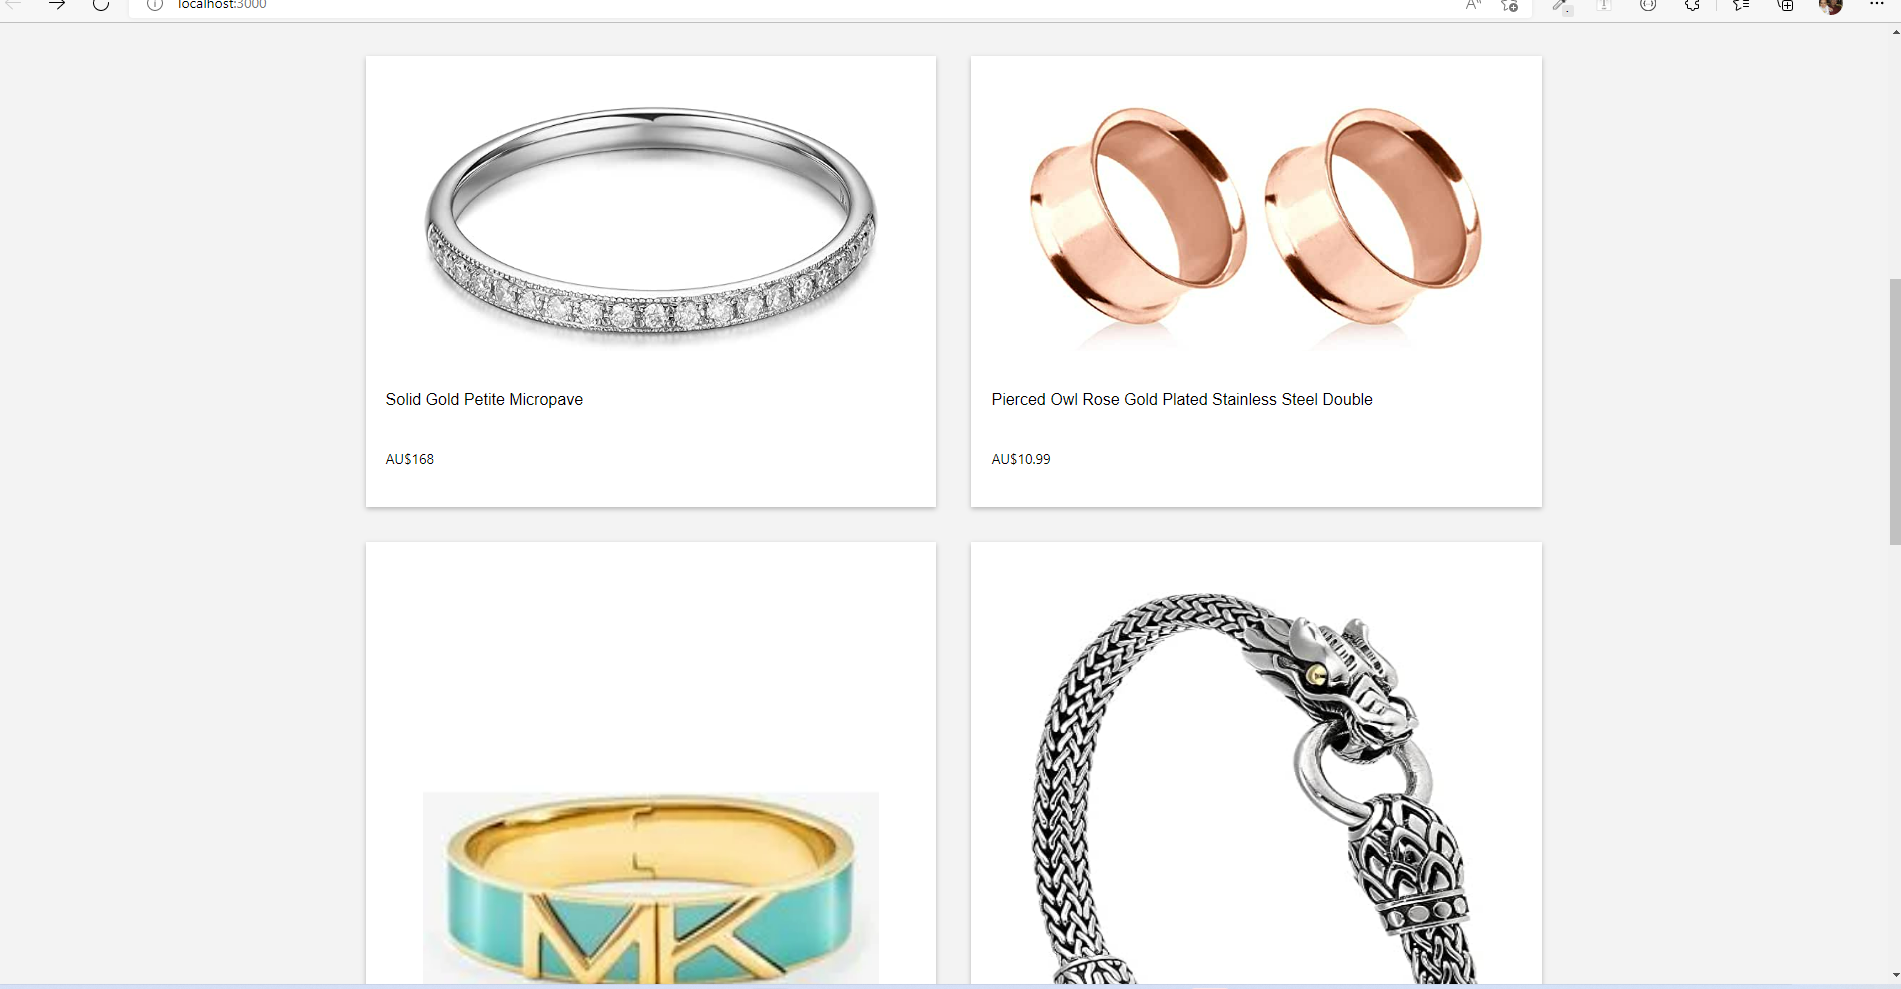
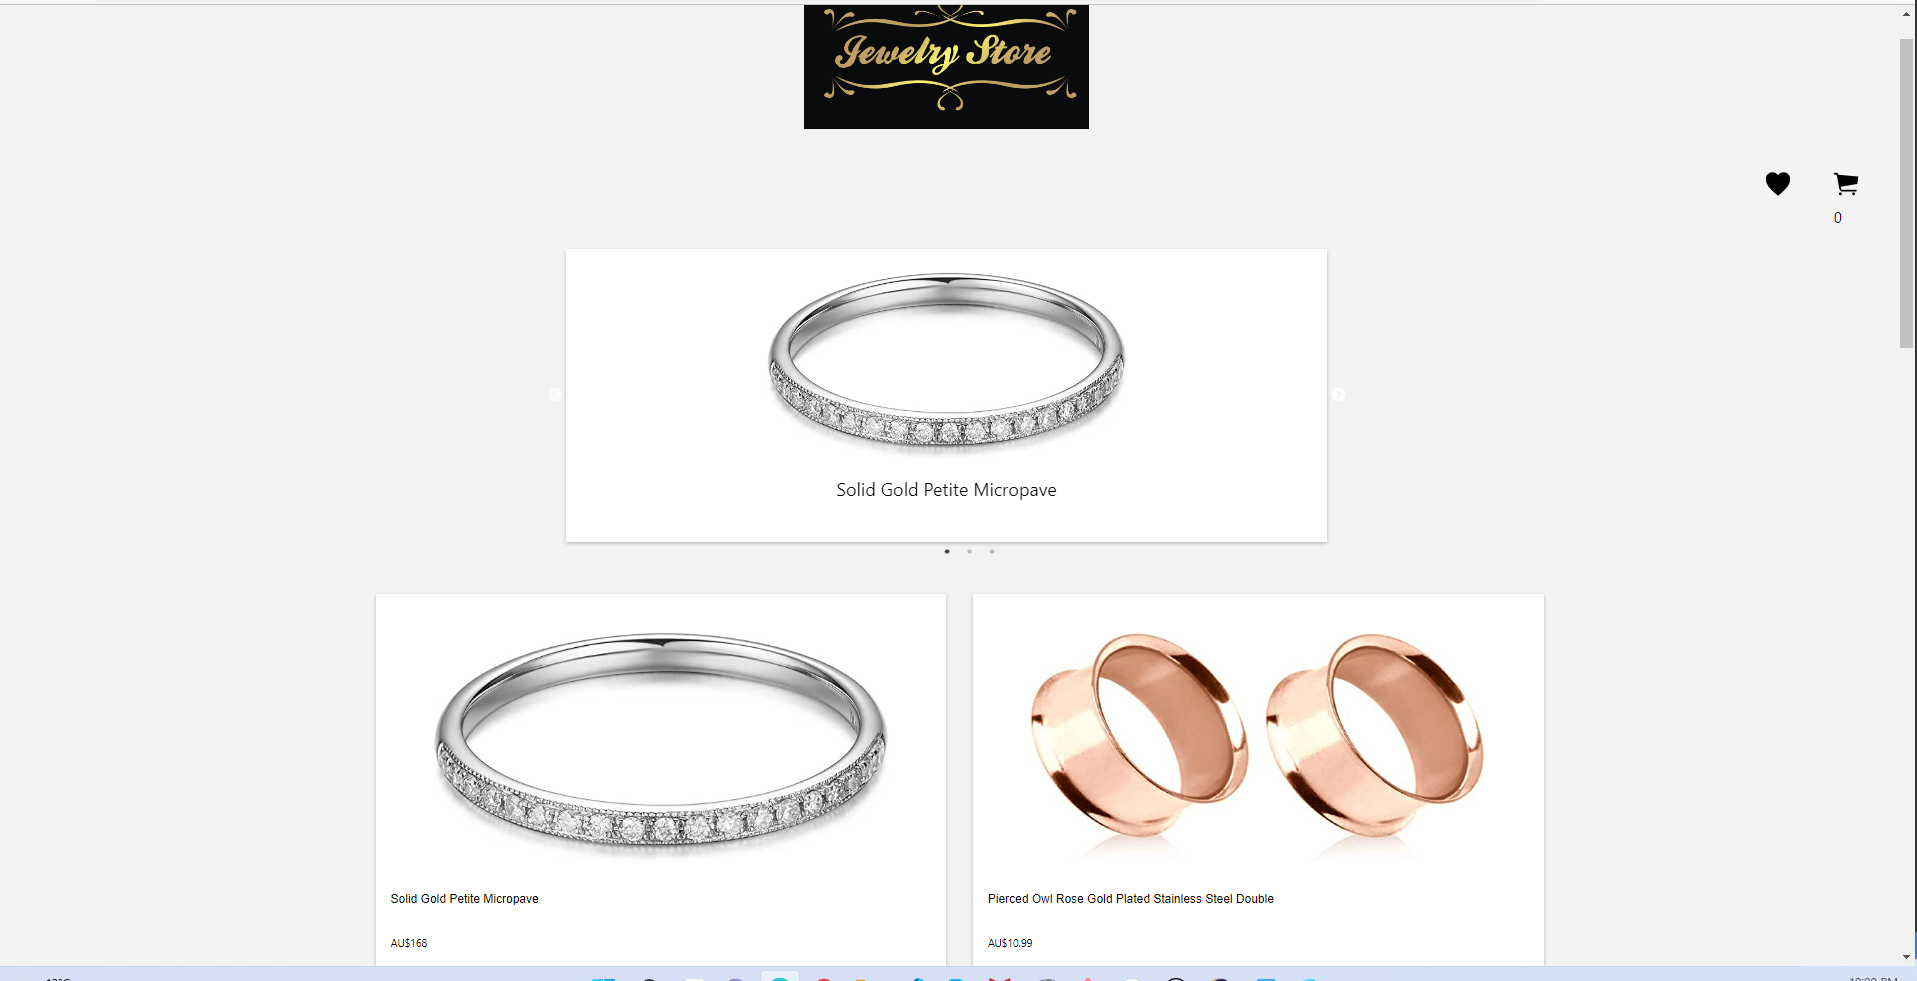
Last version

diff --git a/src/components/Carousel/Carousel.module.scss b/src/components/Carousel/Carousel.module.scss
@@ -1,5 +1,5 @@
 .Container{
-    width:50%;
+    width:40%;
     margin:auto;
     margin-bottom:40px;
     background-color: white;
@@ -21,8 +21,8 @@
 }
 .Text_Container{
     // background-color: red;
-    height:80px;
-    width:900px;
+    // height:80px;
+    // width:900px;
 }
 ._Title{
     text-align: center;

diff --git a/src/components/FavouriteListIcon/FavouriteListIcon.module.scss b/src/components/FavouriteListIcon/FavouriteListIcon.module.scss
@@ -3,14 +3,7 @@
     margin: 50px 50px 10px 0px;
   }
   ._Icon {
-    font-size: 60px;
-    vertical-align:bottom;
+    font-size: 40px;
     color:black;
   }
-  ._Number {
-    font-size: 30px;
-    padding-top: 0;
-    margin-top: 0;
-    padding-right: 25px;
-  }
-  
+ 

diff --git a/src/components/CartIcon/CartIcon.module.scss b/src/components/CartIcon/CartIcon.module.scss
@@ -4,11 +4,11 @@
 //   background-color: aqua;
 }
 ._Icon {
-  font-size: 80px;
+  font-size: 40px;
   color:black;
 }
 ._Number {
-  font-size: 30px;
+  font-size: 20px;
   padding-top: 0;
   margin-top: 0;
   padding-right: 25px;

diff --git a/README.md b/README.md
@@ -2,24 +2,28 @@
 
 
 ## Images of the application
-<img src="./images/screenshot1.png">
-<img src="./images/screenshot2.png">
-<img src="./images/screenshot3.png">
-<img src="./images/screenshot4.png">
+<img src="./src/images/screenshot1.png">
+<img src="./src/images/screenshot2.png">
+<img src="./src/images/screenshot3.png">
+<img src="./src/images/screenshot4.png">
 
 
-## Setup
-- firebase/firestore where the items and orders details are stored.
-- React-router-dom
+## Outline
+This is an e-commerce website that sells Jeweleries. All Jeweleries details are stored as documents in firestor. The user can add products he wants to purchase into a cart, and whenever he confirms the order, it will be stored in firestore. 
 
 
-## Deccription of the project
-This is a website for selling Jeweleries. The main page has a carousel that displays snippets of the products available. Jewleries are displayed in a grid with image, title and price of each product.
+## Description of the project
+The main page has a carousel that displays snippets of the products available. Jewleries are displayed in a grid with image, title and price of each product.
 When the user clicks on the products he wants, he will be navigated to the products page which gives the user more information about the product and allows him to add the quantity he wants from the product to the cart as long as the stock is sufficient. If the stoch is not enough, an alert pops up informing the user the quantity he wants is not available and the quantity in stock. The user can as well click on the favourite icon beside the quantity input to add the product in his favourite list items.
 The user can explore the favourite list or the cart at anytime and go back to shopping or confirm the order.
 In the cart Page, all the items details the user added are displayed. The user can still update the quantity he needs as long as there is enough stock or he can delete the item by pressing the minus button till it reaches zero than the item will disappear from the list.
 After updating the quantity the user can confirm the order by pressing confirm order button. 
 At this step, the items list is sent to the databse in firestore and saved under the names of items. The stock in the databse is updated as well alternatively.
+
+
+## Setup
+- firebase/firestore where the items and orders details are stored.
+- React-router-dom
 
 
 ## Resources
